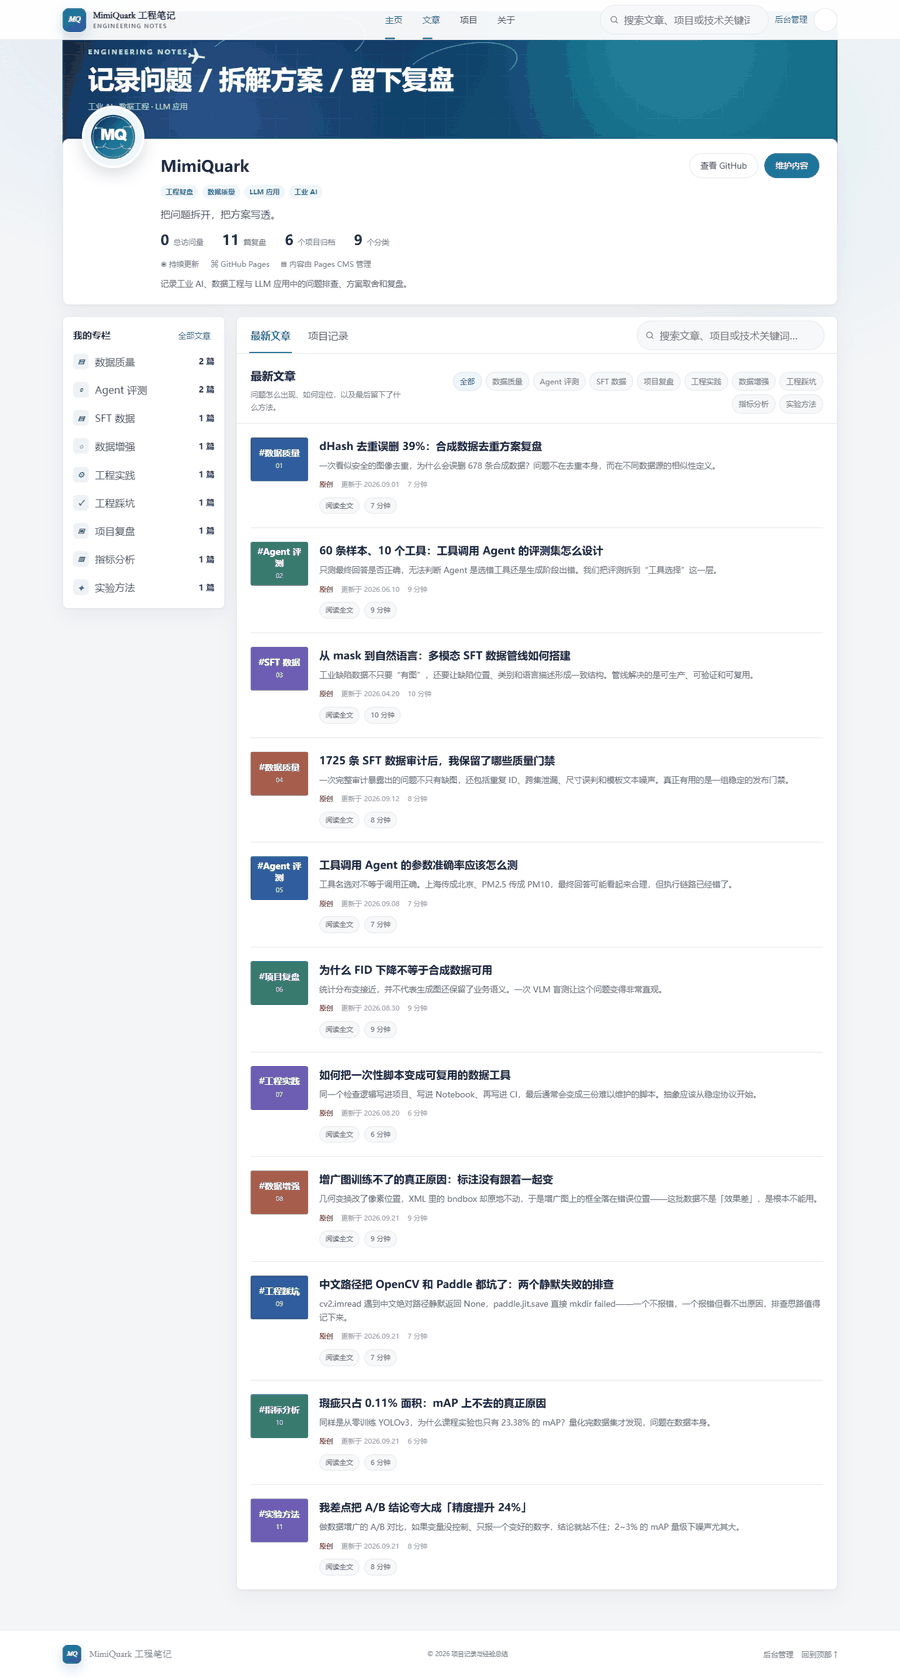
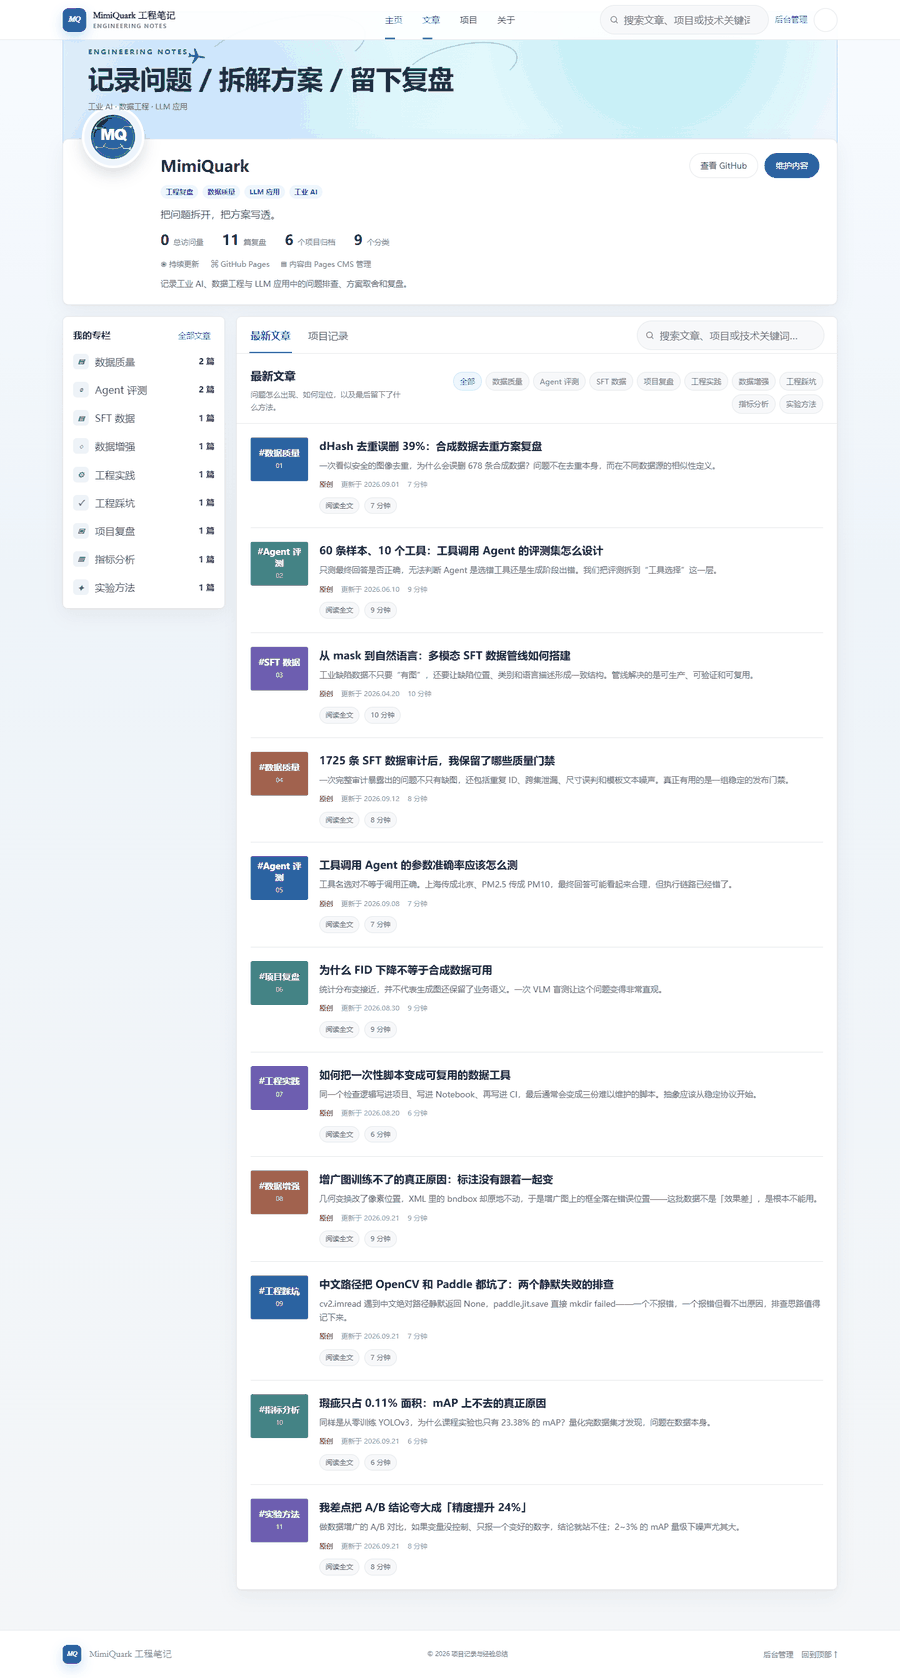
add selectable blog backgrounds

Changed region(s): [[0.0622, 0.0, 0.9333, 0.093]]

diff --git a/profile.css b/profile.css
@@ -195,3 +195,25 @@ body {
 .profile-avatar { background:#eef7ff !important; }
 @media (max-width: 860px) { .profile-cover{height:190px !important}.cover-copy{left:26px;right:26px;max-width:none}.cover-copy strong{font-size:28px} }
 @media (max-width: 640px) { .profile-cover{height:178px !important}.cover-copy{left:18px;right:18px;top:52%}.cover-copy span{font-size:9px;letter-spacing:1.5px}.cover-copy strong{font-size:23px}.cover-copy small{font-size:10px}.sketch-plane{display:none}.profile-card{margin-top:-8px !important} }
+
+/* Selectable cover backgrounds */
+body {
+  background: linear-gradient(180deg, #f8fbff 0, #eef4f9 34%, #f4f6f8 100%) !important;
+}
+.profile-cover.has-image { background-image: var(--cover-image) !important; }
+.profile-cover[data-cover-theme="aurora"] { background: radial-gradient(circle at 78% 18%, rgba(65,205,220,.32), transparent 18rem), radial-gradient(circle at 18% 75%, rgba(109,159,255,.26), transparent 20rem), linear-gradient(120deg,#e7f2ff 0,#dff8fb 48%,#eef7ff 100%) !important; }
+.profile-cover[data-cover-theme="aurora"]::before { background: linear-gradient(rgba(29,91,150,.08) 1px,transparent 1px), linear-gradient(90deg,rgba(29,91,150,.08) 1px,transparent 1px) !important; }
+.profile-cover[data-cover-theme="aurora"] .cover-copy span { color:#176f8f !important; }
+.profile-cover[data-cover-theme="aurora"] .cover-copy strong { color:#102f4e !important; }
+.profile-cover[data-cover-theme="aurora"] .cover-copy small { color:#4d718b !important; }
+.profile-cover[data-cover-theme="aurora"] .sketch-plane { color:#2586b3 !important; }
+.profile-cover[data-cover-theme="aurora"] .cover-sketch::before,.profile-cover[data-cover-theme="aurora"] .cover-sketch::after { color:rgba(58,126,174,.5) !important; }
+.profile-cover[data-cover-theme="ink"] { background: radial-gradient(circle at 78% 18%, rgba(79,216,224,.42), transparent 18rem), radial-gradient(circle at 18% 75%, rgba(97,150,255,.34), transparent 20rem), linear-gradient(120deg,#0d2138 0,#103d67 42%,#0f6d88 100%) !important; }
+.profile-cover[data-cover-theme="ink"] .cover-copy span { color:#9fe7f4 !important; }
+.profile-cover[data-cover-theme="ink"] .cover-copy strong { color:#fff !important; }
+.profile-cover[data-cover-theme="ink"] .cover-copy small { color:rgba(225,248,255,.72) !important; }
+.profile-cover[data-cover-theme="sunrise"] { background: radial-gradient(circle at 82% 16%, rgba(255,154,92,.32), transparent 17rem), radial-gradient(circle at 12% 80%, rgba(67,154,255,.24), transparent 19rem), linear-gradient(120deg,#fff7ed 0,#eef7ff 48%,#dff7f5 100%) !important; }
+.profile-cover[data-cover-theme="sunrise"]::before { background: linear-gradient(rgba(119,79,42,.07) 1px,transparent 1px), linear-gradient(90deg,rgba(119,79,42,.07) 1px,transparent 1px) !important; }
+.profile-cover[data-cover-theme="sunrise"] .cover-copy span { color:#ad5f28 !important; }
+.profile-cover[data-cover-theme="sunrise"] .cover-copy strong { color:#233b50 !important; }
+.profile-cover[data-cover-theme="sunrise"] .cover-copy small { color:#6a6f75 !important; }

diff --git a/index.html b/index.html
@@ -54,7 +54,7 @@
 
   <main id="main" class="profile-page">
     <section class="profile-shell section-shell" id="home">
-      <div class="profile-cover" id="profileCover">
+      <div class="profile-cover" id="profileCover" data-cover-theme="aurora">
         <div class="cover-sketch" aria-hidden="true"><span class="sketch-plane">✈</span></div><div class="cover-copy"><span id="coverEyebrow">INDUSTRIAL AI · DATA · LLM</span><strong id="coverTitle">让数据与模型变成可复现的工程</strong><small id="coverSubtitle">工业 AI / SFT 数据 / Agent 工程 / Python 后端</small></div>
       </div>
       <div class="profile-card reveal">

diff --git a/app.js b/app.js
@@ -91,8 +91,9 @@ function renderPage() {
   }
 
   const cover = $("#profileCover");
+  if (cover) cover.dataset.coverTheme = coverContent.theme || "aurora";
   if (cover && profile.coverImage) {
-    cover.style.backgroundImage = 'url("' + String(profile.coverImage).replaceAll('"', '%22') + '")';
+    cover.style.setProperty('--cover-image', 'url("' + String(profile.coverImage).replaceAll('"', '%22') + '")');
     cover.classList.add("has-image");
   }
 

diff --git a/data.js b/data.js
@@ -163,7 +163,8 @@ window.portfolioDataFallback = {
     "cover": {
       "eyebrow": "ENGINEERING NOTES",
       "title": "记录问题 / 拆解方案 / 留下复盘",
-      "subtitle": "工业 AI · 数据工程 · LLM 应用"
+      "subtitle": "工业 AI · 数据工程 · LLM 应用",
+      "theme": "aurora"
     },
     "labels": {
       "githubButton": "查看 GitHub",

diff --git a/README.md b/README.md
@@ -20,7 +20,7 @@
 
 打开 `https://app.pagescms.org/MimiQuark/MimiQuark.github.io/main` 可以编辑：
 
-- 顶部背景文字、博客名称、搜索提示和内容流文案
+- 顶部背景文字、背景主题（aurora / ink / sunrise）、博客名称、搜索提示和内容流文案
 - 公开昵称、头像、顶部背景图、写作标签和简介
 - 总访问量使用的计数空间、计数键和接口失败时的显示值
 - 文章分类和写作方向
